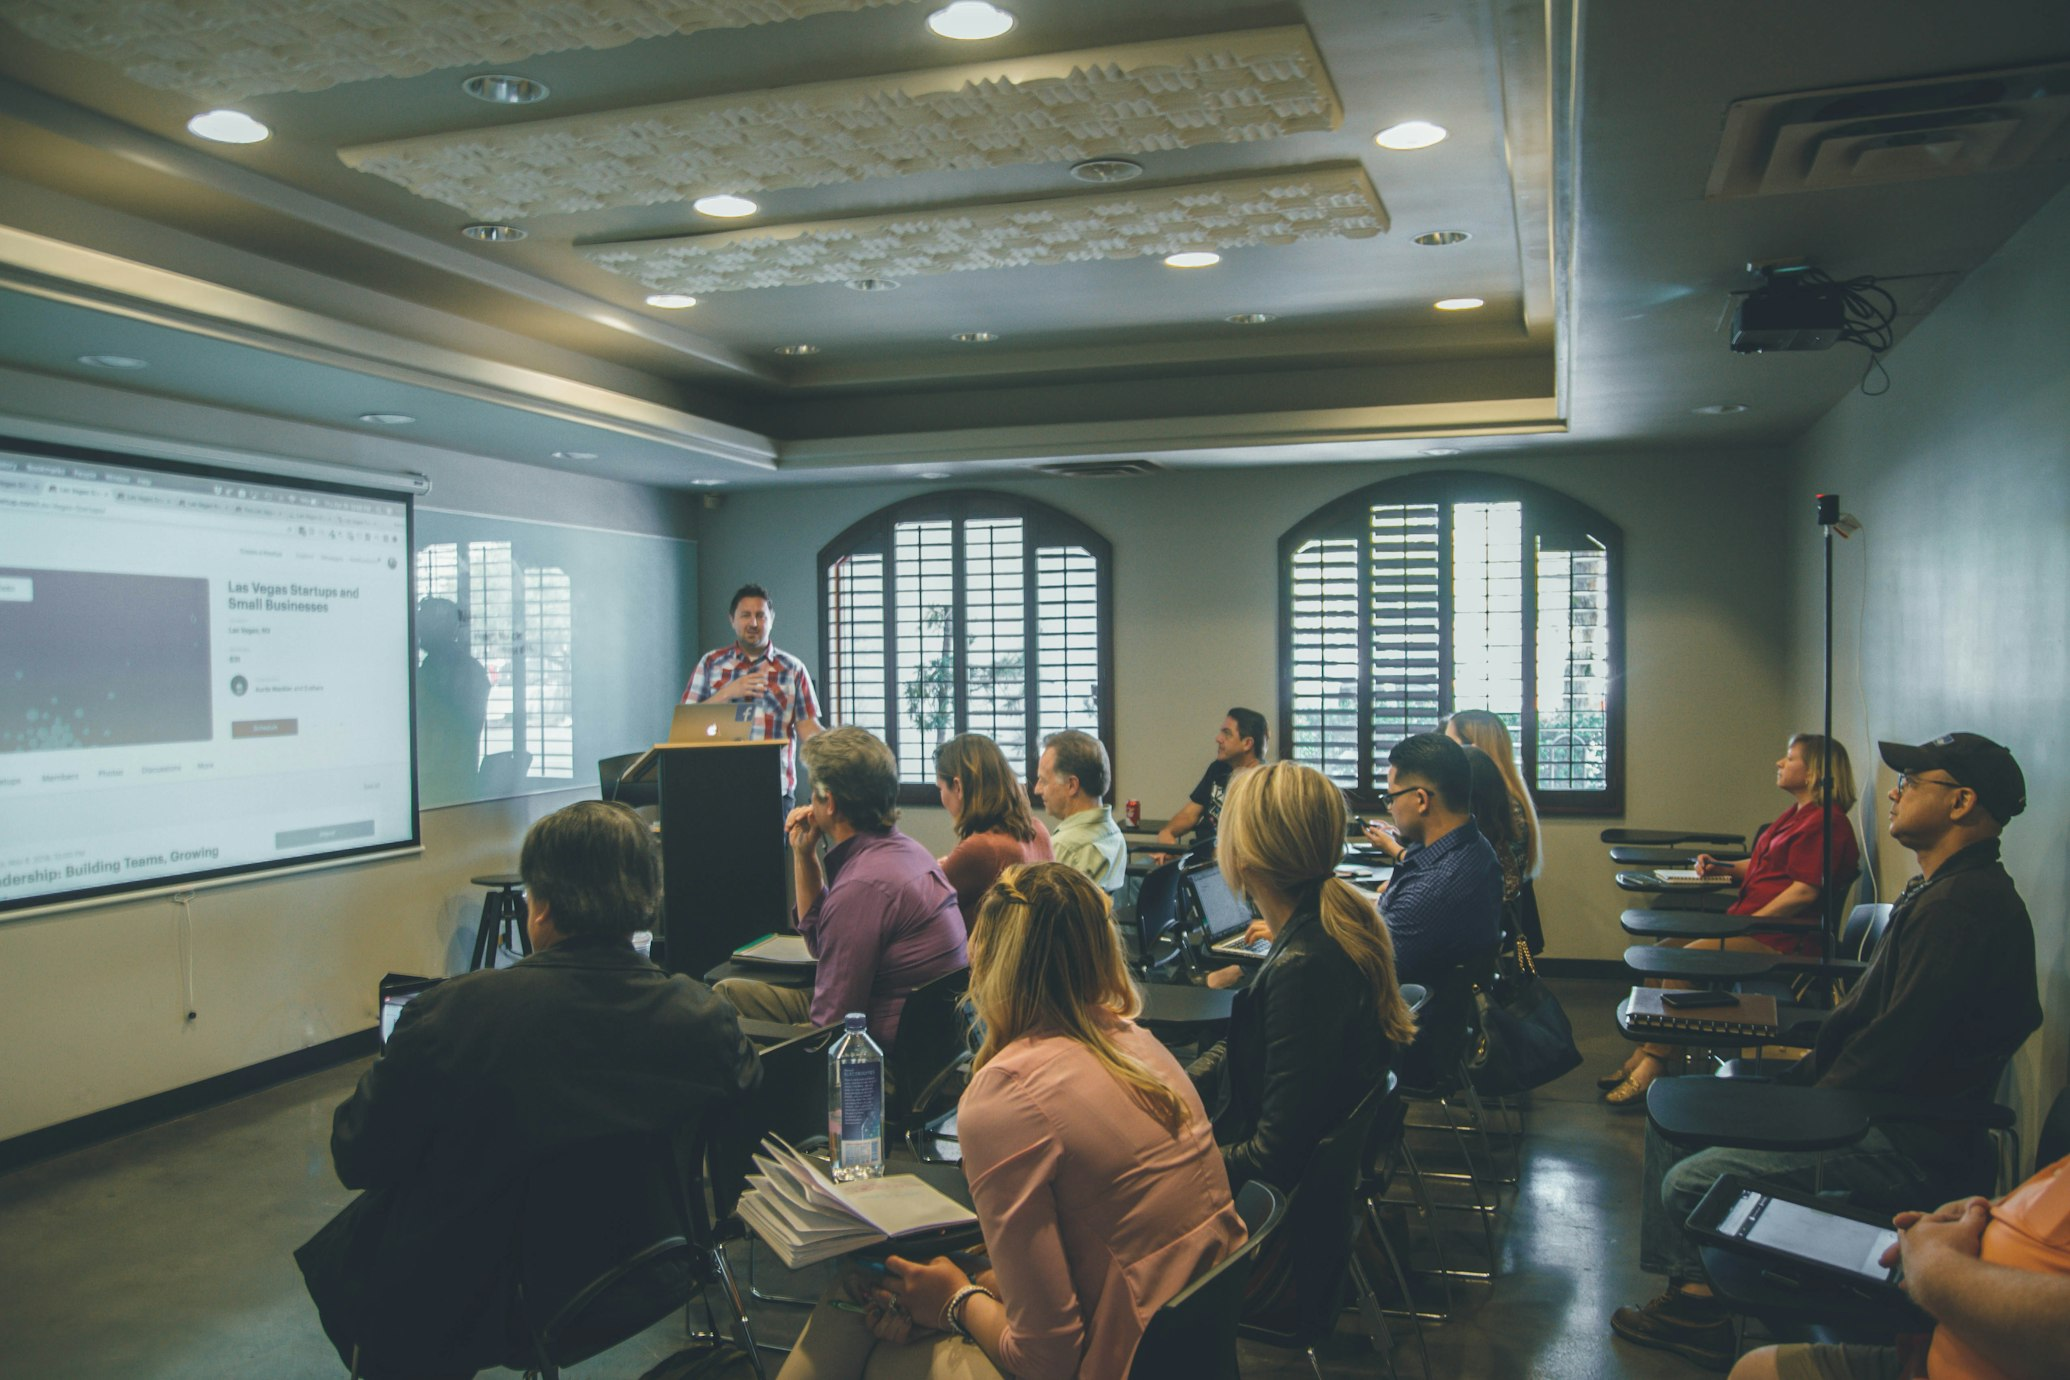
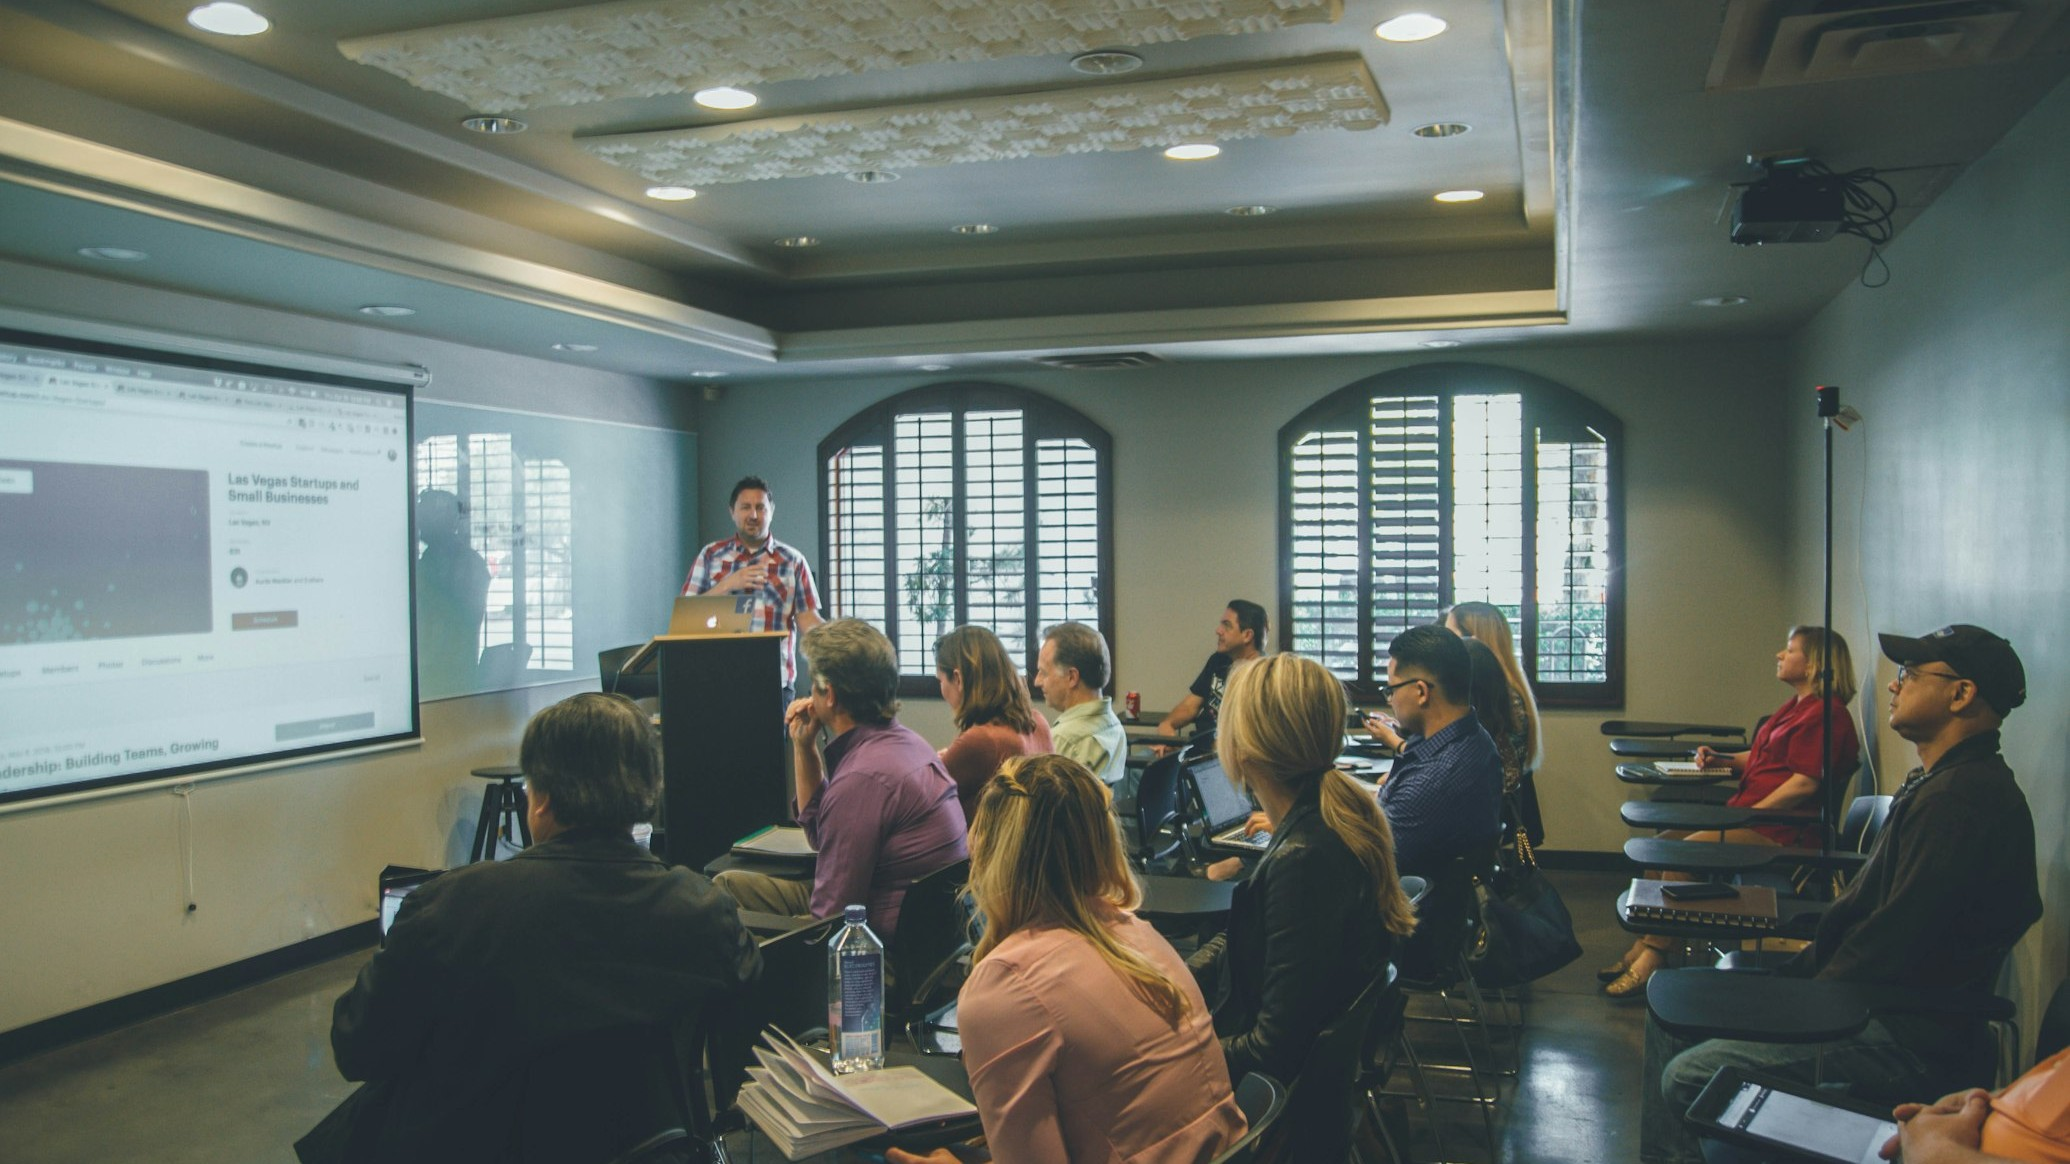
Imagenes

diff --git a/public/js/script.js b/public/js/script.js
@@ -1,93 +1,127 @@
-// ==========================================
-    // EXPORTAR A PDF (Formato Clásico / Normal)
+/* =========================================
+   SCRIPT GLOBAL - Instituto John H. Watson
+========================================= */
+
+document.addEventListener('DOMContentLoaded', () => {
+    // 1. ILUMINAR MENÚ ACTIVO
+    const currentUrl = window.location.pathname.split('/').pop() || 'index.html';
+    document.querySelectorAll('.nav-link, .dropdown-item').forEach(link => {
+        if (link.getAttribute('href') === currentUrl) {
+            link.classList.add('active');
+            if (link.classList.contains('dropdown-item')) {
+                link.closest('.dropdown')?.querySelector('.dropdown-toggle').classList.add('active');
+            }
+        }
+    });
+
+    // 2. MODO CLARO / OSCURO
+    const btnTheme = document.getElementById('btnTheme');
+    const themeIcon = btnTheme?.querySelector('i');
+    
+    // Revisar si ya había elegido modo claro antes
+    if (localStorage.getItem('temaJHW') === 'light') {
+        document.body.classList.add('light-mode');
+        if(themeIcon) themeIcon.className = 'bi bi-moon-stars-fill';
+    }
+
+    btnTheme?.addEventListener('click', () => {
+        document.body.classList.toggle('light-mode');
+        if (document.body.classList.contains('light-mode')) {
+            localStorage.setItem('temaJHW', 'light');
+            themeIcon.className = 'bi bi-moon-stars-fill';
+        } else {
+            localStorage.setItem('temaJHW', 'dark');
+            themeIcon.className = 'bi bi-sun-fill';
+        }
+    });
+
+    // 3. SIMULADOR DE LOGIN (ADMIN)
+    const btnAdmin = document.getElementById('btnAdmin');
+    let isAdmin = localStorage.getItem('adminJHW') === 'true';
+
+    // Función para mostrar/ocultar botones de edición
+    const actualizarPermisos = () => {
+        const botonesCRUD = document.querySelectorAll('#btnModificar, #btnEliminar, #btnEditarMateria, #btnEditarProf, #btnMoverHorario, #btnAgregarMateria, #btnAgregarProf');
+        botonesCRUD.forEach(btn => {
+            btn.style.display = isAdmin ? 'block' : 'none';
+        });
+        if(btnAdmin) {
+            btnAdmin.innerHTML = isAdmin ? '<i class="bi bi-unlock-fill"></i> Admin' : '<i class="bi bi-lock-fill"></i>';
+            btnAdmin.className = isAdmin ? 'btn btn-danger btn-sm rounded-pill' : 'btn btn-outline-danger btn-sm rounded-pill';
+        }
+    };
+
+    actualizarPermisos(); // Ejecutar al cargar
+
+    btnAdmin?.addEventListener('click', async () => {
+        if (isAdmin) {
+            localStorage.setItem('adminJHW', 'false');
+            isAdmin = false;
+            actualizarPermisos();
+            Swal.fire('Sesión Cerrada', 'Modo lectura activado.', 'info');
+        } else {
+            const { value: password } = await Swal.fire({
+                title: 'Acceso Administrativo',
+                input: 'password',
+                inputPlaceholder: 'Ingresa la clave (es: admin123)',
+                inputAttributes: { autocapitalize: 'off', autocorrect: 'off' }
+            });
+
+            if (password === 'admin123') {
+                localStorage.setItem('adminJHW', 'true');
+                isAdmin = true;
+                actualizarPermisos();
+                Swal.fire('Acceso Concedido', 'Tienes permisos de edición.', 'success');
+            } else if (password) {
+                Swal.fire('Error', 'Contraseña incorrecta.', 'error');
+            }
+        }
+    });
+
+    // 4. ANIMACIONES Y CARRUSEL
+    document.querySelectorAll('.card, .col-md-6 > a > .p-4').forEach((tarjeta, index) => {
+        tarjeta.style.animationDelay = `${index * 0.1}s`;
+    });
+
+    const carouselElement = document.getElementById('carouselExamples');
+    if (carouselElement && window.bootstrap) {
+        new bootstrap.Carousel(carouselElement, { interval: 5000, ride: 'carousel' });
+    }
+
     // ==========================================
+    // 5. EXPORTAR A PDF (Protegido)
+    // ==========================================
+    // Usamos ?. para que no dé error si el botón no existe en la página actual
     const btnExportar = document.querySelector('.bi-printer')?.closest('button');
+    
     if (btnExportar) {
         btnExportar.addEventListener('click', () => {
-            // 1. Clonar la tabla para no romper el diseño oscuro de la página
-            const tablaOriginal = document.querySelector('.table');
-            const tablaClon = tablaOriginal.cloneNode(true);
+            const elementoTabla = document.querySelector('.table-responsive');
             
-            // 2. Crear un contenedor limpio ("hoja de papel en blanco")
-            const contenedorPDF = document.createElement('div');
-            contenedorPDF.style.padding = '20px';
-            contenedorPDF.style.fontFamily = 'Arial, sans-serif';
-            contenedorPDF.style.backgroundColor = '#ffffff';
-            
-            // 3. Añadir el membrete oficial del Liceo
-            contenedorPDF.innerHTML = `
-                <div style="text-align: center; margin-bottom: 20px; border-bottom: 2px solid #000; padding-bottom: 10px;">
-                    <h2 style="margin: 0; color: #000;">Instituto Técnico John H. Watson</h2>
-                    <h4 style="margin: 5px 0 0 0; color: #444;">Horario Académico Semanal</h4>
-                </div>
-            `;
-            
-            // 4. Limpiar los estilos web de la tabla clonada
-            tablaClon.classList.remove('table', 'align-middle'); 
-            tablaClon.style.width = '100%';
-            tablaClon.style.borderCollapse = 'collapse';
-            
-            // 5. Aplicar bordes negros clásicos y texto oscuro a TODAS las celdas
-            const celdas = tablaClon.querySelectorAll('th, td');
-            celdas.forEach(celda => {
-                celda.style.border = '1px solid #000000';
-                celda.style.padding = '12px 8px';
-                celda.style.textAlign = 'center';
-                celda.style.verticalAlign = 'middle';
-                celda.style.color = '#000000'; // Forzar texto negro
-                
-                // Si hay textos secundarios (como el aula), ponerlos en gris oscuro
-                const textosPequeños = celda.querySelectorAll('.text-muted, small');
-                textosPequeños.forEach(txt => {
-                    txt.style.color = '#333333';
-                    txt.style.display = 'block';
-                    txt.style.marginTop = '4px';
-                });
-            });
+            if (!elementoTabla) return; // Si no hay tabla, no hace nada
 
-            // 6. Fondo gris claro para los encabezados (Días de la semana)
-            const encabezados = tablaClon.querySelectorAll('th');
-            encabezados.forEach(th => {
-                th.style.backgroundColor = '#e2e8f0';
-                th.style.fontWeight = 'bold';
-                th.style.color = '#000000';
-            });
-
-            // 7. Ajustar las pastillas de colores para que destaquen en el papel
-            const badges = tablaClon.querySelectorAll('.badge');
-            badges.forEach(badge => {
-                badge.style.display = 'inline-block';
-                badge.style.padding = '6px 10px';
-                badge.style.borderRadius = '4px';
-                badge.style.fontSize = '13px';
-                badge.style.fontWeight = 'bold';
-            });
-
-            // Agregamos la tabla limpia al contenedor
-            contenedorPDF.appendChild(tablaClon);
-
-            // Opciones de configuración de PDF
             const opciones = {
-                margin:       0.4,
-                filename:     'Horario_Clases_JHW.pdf',
-                image:        { type: 'jpeg', quality: 1 },
+                margin:       1,
+                filename:     'Horario_Academico_JHW.pdf',
+                image:        { type: 'jpeg', quality: 0.98 },
                 html2canvas:  { scale: 2 },
                 jsPDF:        { unit: 'in', format: 'letter', orientation: 'landscape' }
             };
             
-            // Efecto de carga en el botón
+            // Animación de carga mientras genera
             const textoOriginal = btnExportar.innerHTML;
-            btnExportar.innerHTML = '<span class="spinner-border spinner-border-sm me-2"></span>Generando PDF...';
+            btnExportar.innerHTML = '<span class="spinner-border spinner-border-sm me-2"></span>Generando...';
             
-            // Generar y descargar el PDF desde el contenedor limpio, NO desde la pantalla
-            html2pdf().set(opciones).from(contenedorPDF).save().then(() => {
-                btnExportar.innerHTML = textoOriginal;
-                Swal.fire({
-                    title: '¡Descarga Completa!',
-                    text: 'El horario ha sido guardado con formato de impresión clásico.',
-                    icon: 'success',
-                    confirmButtonColor: '#10b981'
+            // Asegurarnos de que la librería HTML2PDF exista antes de llamarla
+            if (typeof html2pdf !== 'undefined') {
+                html2pdf().set(opciones).from(elementoTabla).save().then(() => {
+                    btnExportar.innerHTML = textoOriginal;
+                    Swal.fire('¡Éxito!', 'El horario se ha descargado en tu equipo.', 'success');
                 });
-            });
+            } else {
+                btnExportar.innerHTML = textoOriginal;
+                Swal.fire('Error', 'No se ha cargado la librería de PDF.', 'error');
+            }
         });
     }
+});

diff --git a/public/html/horarios.html b/public/html/horarios.html
@@ -121,7 +121,7 @@
         </div>
     </footer>
 
-    <script src="https://cdn.jsdelivr.net/npm/bootstrap@5.3.2/dist/js/bootstrap.bundle.min.js"></script>
+    <script src="https://cdnjs.cloudflare.com/ajax/libs/html2pdf.js/0.10.1/html2pdf.bundle.min.js"></script>
     <script src="../js/horarios.js"></script>
     <script src="../js/script.js"></script>
 </body>